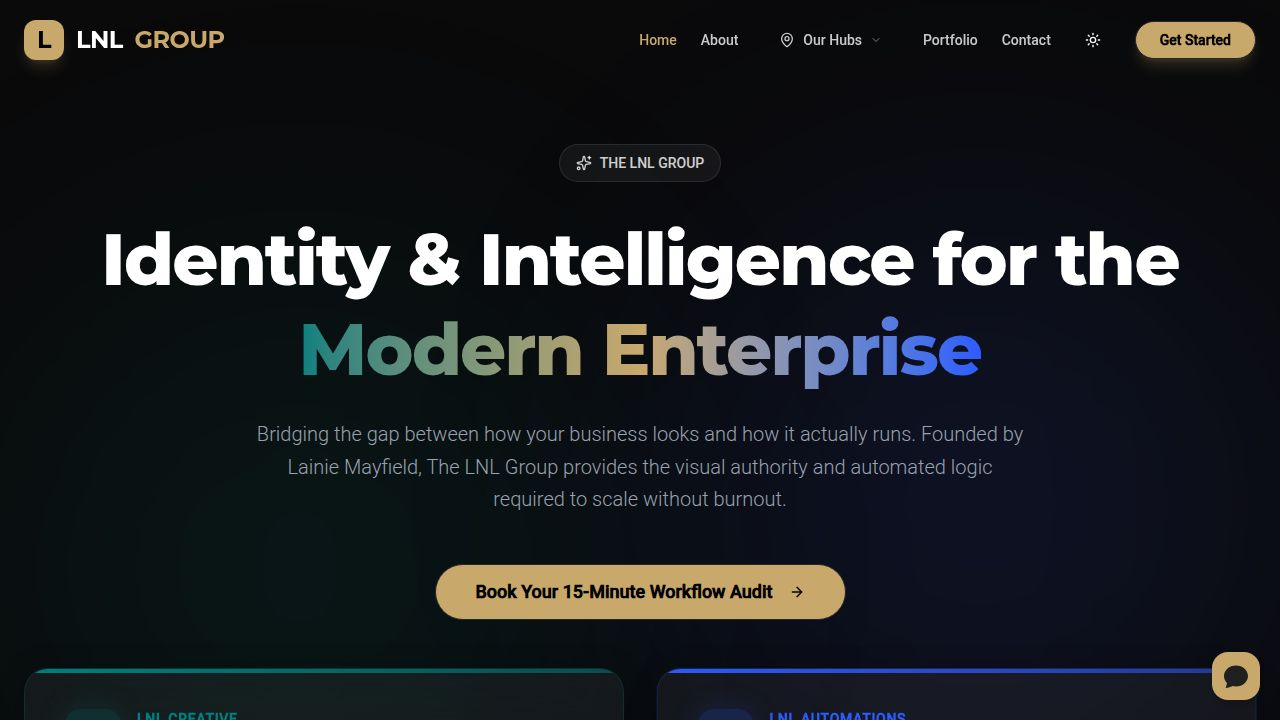
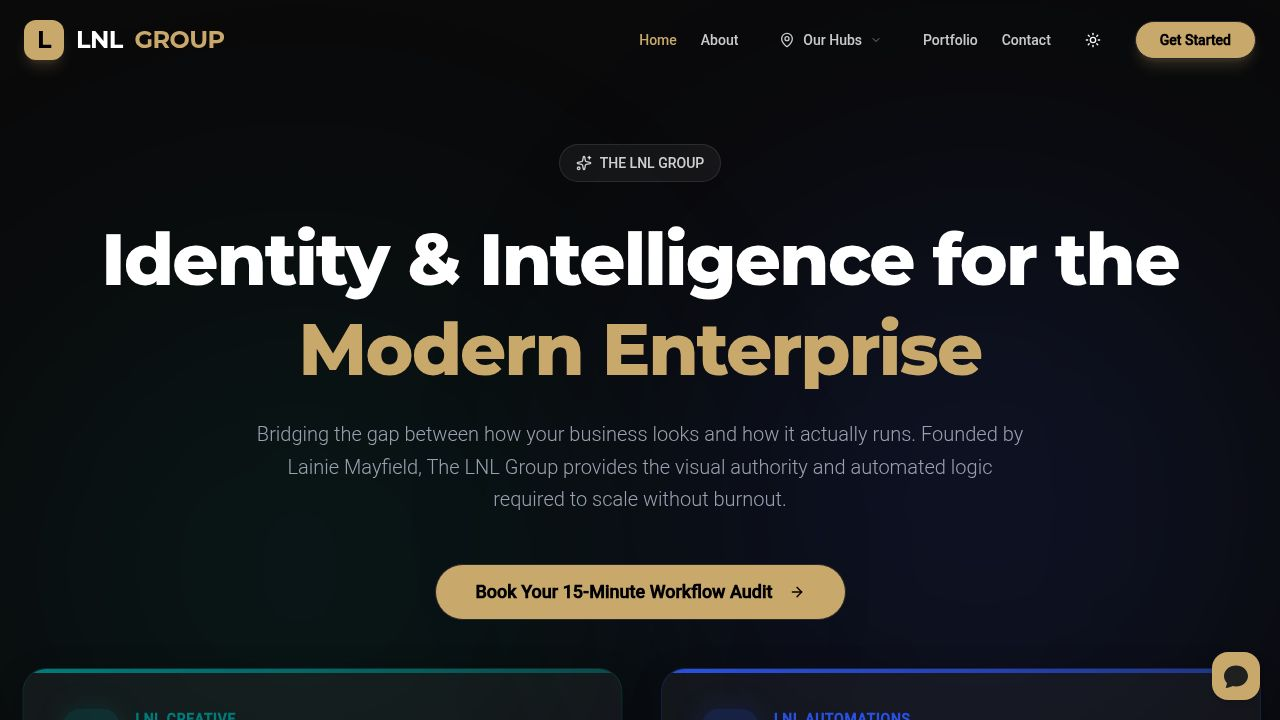
Update text to use solid color instead of gradient
Change "Modern Enterprise" text in the HubHero component from a gradient to a solid Champagne Gold color (#C9A86C).

Replit-Commit-Author: Agent
Replit-Commit-Session-Id: 804ebe80-f2bb-45b0-8f5d-b73ab4e92bdf
Replit-Commit-Checkpoint-Type: full_checkpoint
Replit-Commit-Event-Id: 81fd8780-90ba-42be-8539-625fe7b984e4
Replit-Commit-Screenshot-Url: https://storage.googleapis.com/screenshot-production-us-central1/4cfe9bca-c23f-4b09-bade-94c6298a393d/804ebe80-f2bb-45b0-8f5d-b73ab4e92bdf/JbK1Ou6
Replit-Helium-Checkpoint-Created: true

diff --git a/client/src/components/HubHero.tsx b/client/src/components/HubHero.tsx
@@ -25,7 +25,7 @@ export default function HubHero() {
           
           <h1 className="text-5xl md:text-7xl font-extrabold mb-6 leading-tight tracking-tight text-white">
             Identity & Intelligence for the<br />
-            <span className="bg-gradient-to-r from-[#008080] via-lnl-gold to-[#2E5BFF] bg-clip-text text-transparent">Modern Enterprise</span>
+            <span className="text-[#C9A86C]">Modern Enterprise</span>
           </h1>
           
           <p className="text-xl text-gray-400 max-w-3xl mx-auto leading-relaxed font-light mb-12">
